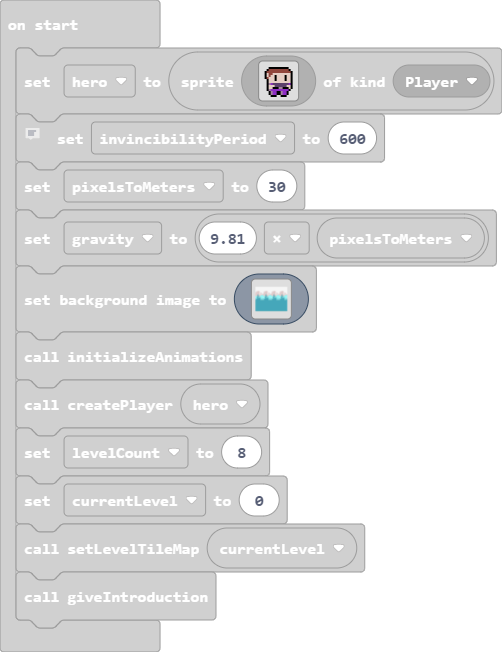
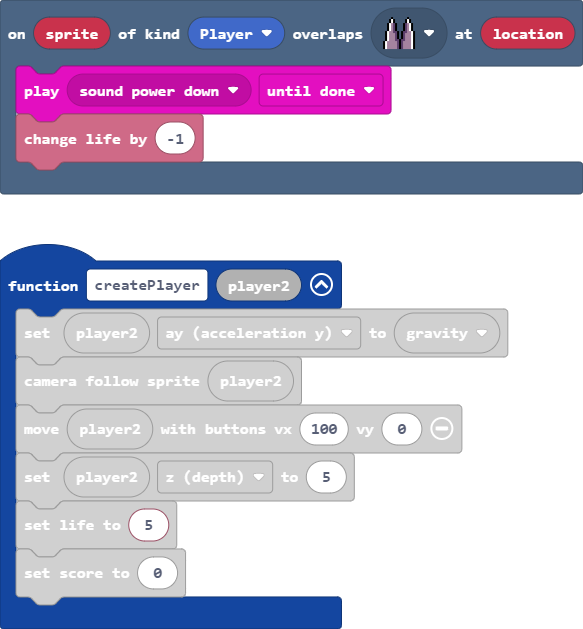
Update main.blocks, main.ts, tilemap.g.jres, tilemap.g.ts

diff --git a/tilemap.g.ts b/tilemap.g.ts
@@ -5,8 +5,6 @@ namespace myTiles {
     //% fixedInstance jres blockIdentity=images._tile
     export const tile0 = image.ofBuffer(hex``);
     //% fixedInstance jres blockIdentity=images._tile
-    export const tile1 = image.ofBuffer(hex``);
-    //% fixedInstance jres blockIdentity=images._tile
     export const tile2 = image.ofBuffer(hex``);
     //% fixedInstance jres blockIdentity=images._tile
     export const tile3 = image.ofBuffer(hex``);
@@ -24,20 +22,15 @@ namespace myTiles {
     export const tile9 = image.ofBuffer(hex``);
     //% fixedInstance jres blockIdentity=images._tile
     export const tile10 = image.ofBuffer(hex``);
+    //% fixedInstance jres blockIdentity=images._tile
+    export const tile11 = image.ofBuffer(hex``);
+    //% fixedInstance jres blockIdentity=images._tile
+    export const tile1 = image.ofBuffer(hex``);
+    //% fixedInstance jres blockIdentity=images._tile
+    export const tile12 = image.ofBuffer(hex``);
 
     helpers._registerFactory("tilemap", function(name: string) {
         switch(helpers.stringTrim(name)) {
-            case "level_0":
-            case "level_0":return tiles.createTilemap(hex`2000080000000000000000000000000000000000000000000000000000000000000000000000000000000000000000000000000000000000000300000000000000000000000000000000000000000000000000000000000305030000000000000000000000000000000000030300030000000000000300030503000000000000000000000000000000000303030003000000000300030003050300000000000000000000030000000003030303000300000300030503050305030005050505050505050503060000000000000400030000030004000000040503000000000000000001000302020202020202020203020203020202020202020302020202020202020202`, img`
-. . . . . . . . . . . . . . . . . . . . . . . . . . . . . . . . 
-. . . . . . . . . . . . . . . . . . . . . 2 . . . . . . . . . . 
-. . . . . . . . . . . . . . . . . . . 2 . 2 . . . . . . . . . . 
-. . . . . . . 2 2 . 2 . . . . . . 2 . 2 . 2 . . . . . . . . . . 
-. . . . . . 2 2 2 . 2 . . . . 2 . 2 . 2 . 2 . . . . . . . . . . 
-2 . . . . 2 2 2 2 . 2 . . 2 . 2 . 2 . 2 . 2 . . . . . . . . . . 
-2 . . . . . . . . . 2 . . 2 . . . . . . . 2 . . . . . . . . . . 
-2 2 2 2 2 2 2 2 2 2 2 . . 2 2 2 2 2 2 2 2 2 2 2 2 2 2 2 2 2 2 2 
-`, [myTiles.tile0,myTiles.tile1,myTiles.tile2,myTiles.tile3,myTiles.tile4,myTiles.tile5,myTiles.tile6], TileScale.Sixteen);
             case "level_1":
             case "level_1":return tiles.createTilemap(hex`2000080000000000000000000000000000000000000000060000000000000000060606060000000000000000000000000000000000000000000000000000000000000000000000000000000000000000000000000000000000000000000000000000000000000000000000000000020202020202000000000000000000000000000000000000000000000000020002060303030000000000000000000000000000030303000000000002000002000200030303000000000000000000000000000003030300040002000200000000020003030300000000000000000005000000000303030101010201020101010102010101010101010101010101010101010101010101`, img`
 . . . . . . . . . . . . . . . . . . . . . . . . . . . . . . . . 
@@ -104,17 +97,28 @@ namespace myTiles {
 2 . . . . . . . . . . . . . . . . . . . . . . . . . . . . . . . . . . . . 
 2 2 2 2 2 2 2 2 2 2 2 2 2 2 2 2 2 2 2 2 2 2 2 2 2 2 2 2 2 2 2 2 2 2 2 2 2 
 `, [myTiles.tile0,myTiles.tile1,myTiles.tile2,myTiles.tile3,myTiles.tile6,myTiles.tile5,myTiles.tile4,myTiles.tile7], TileScale.Sixteen);
+            case "level_0":
+            case "level_0":return tiles.createTilemap(hex`640008000000000000000000000000000000000000000000000000000000000000000000000000000000000000000000000000000000000000000000000000000000000000000000000000000000000000000000000000000000000000000000000000000000000000000000000000000000000000000000000000000000000003000000000000000000000000000000000000000000000000000000000000000000000000000000000000000000000000000000000000000000000000000000000000000000000000000000000000000000000000000000000000000000000000000000000000000000000000000000000100000000000000000000000000000000000000000000000000000000000000000000000000000000000000000000000000000000000000000000000000000000000000020202020000000000000000000000000005050505000000000000000505050505050505050000000000000000000000000000000000000000000000000000000000000000000000000000000505050500000000000000000000000000000000000000000505050502000000000000000000000005000000000500000000000005000000000000000500000000000000000000000000000000000000000000000000000000000000000000000005050500000000050505050000000000000000000000070000000000000000050000000000000000000000000000000000000000000000000000000000000000000000000000000000000000000000050505000000000000000000050505050505050505050000000000000000000000000000000000000000000000000000000000000000000606000000000000000000000000000000000000000000000000000000000000000000000000000000000000000000050505050505050505050500000000000000000000000000000000000000000000000000000000000004040404040404040404040404040404040404040404040404040404040404040404040404040404040404040404040404040404040404040404040404040404040404040404040404040404040404040404040404040404040404040404040404040404`, img`
+....................................................................................................
+....................................................................................................
+....................................................................................................
+....................................................................................................
+.....2222...........................................................................................
+.........2..........................................................................................
+....................................................................................................
+2222222222222222....................................................................................
+`, [myTiles.tile0,myTiles.tile4,myTiles.tile5,myTiles.tile7,myTiles.tile10,sprites.builtin.forestTiles0,myTiles.tile12,myTiles.tile6], TileScale.Sixteen);
             case "level":
-            case "level":return tiles.createTilemap(hex`2000080000000000000000000000000000000000000000000000000000000000000000000000000000000000000000000000000000000000000000000000000000000000000000000000000005000000000000000000000000000000000000000000000000000000050000000000000000000000000000000000000000000000000000000006000000000000000000050000000000000000000000000000000000000000000000000000000003000005000300000000000000000000000000000000000300000000030000000300040000030000040003000400000400030001000000030202020203020202030202020203020202020302020202020203020202020203`, img`
[1 lines of base64/hex data omitted]
 . . . . . . . . . . . . . . . . . . . . . . . . . . . . . . . . 
 . . . . . . . . . . . . . . . . . . . . . . . . . . . . . . . . 
-. . . . . . . . . . . . . . . . . . . . . . . . . . . . . . . . 
-. . . . . . . . . . . . . . . . . . . . . . . . . . . . . . . . 
+. . . . . . . . . . . . 2 . . 2 . . . . . . . . . . . . . . . . 
+. . . . . . . . . . . . 2 2 2 2 . . . . . . . . . . . . . . . . 
 . . . . . . . . . . . . . . . . . . . . . . . . . . . . . . . . 
 . . . . . . . . 2 . . . . 2 . . . . . . . . . . . . . . . . . 2 
 . . . . 2 . . . 2 . . . . 2 . . . . 2 . . . . . . 2 . . . . . 2 
 2 2 2 2 2 2 2 2 2 2 2 2 2 2 2 2 2 2 2 2 2 2 2 2 2 2 2 2 2 2 2 2 
-`, [myTiles.tile0,myTiles.tile1,myTiles.tile2,myTiles.tile3,myTiles.tile4,myTiles.tile5,myTiles.tile6,myTiles.tile8,myTiles.tile9,myTiles.tile10], TileScale.Sixteen);
+`, [myTiles.tile0,myTiles.tile1,myTiles.tile3,myTiles.tile4,myTiles.tile5,myTiles.tile6,myTiles.tile8,sprites.builtin.forestTiles0,myTiles.tile11,myTiles.tile12,myTiles.tile7,myTiles.tile10], TileScale.Sixteen);
         }
         return null;
     })
@@ -123,7 +127,6 @@ namespace myTiles {
         switch(helpers.stringTrim(name)) {
             case "transparency16":return transparency16;
             case "tile0":return tile0;
-            case "tile1":return tile1;
             case "tile2":return tile2;
             case "tile3":return tile3;
             case "tile4":return tile4;
@@ -136,6 +139,11 @@ namespace myTiles {
             case "tile9":return tile9;
             case "myTile1":
             case "tile10":return tile10;
+            case "myTile2":
+            case "tile11":return tile11;
+            case "tile1":return tile1;
+            case "myTile3":
+            case "tile12":return tile12;
         }
         return null;
     })

diff --git a/main.ts b/main.ts
@@ -677,6 +677,10 @@ function animateJumps () {
             `)
     }
 }
+scene.onOverlapTile(SpriteKind.Player, assets.tile`myTile3`, function (sprite, location) {
+    music.play(music.melodyPlayable(music.powerDown), music.PlaybackMode.UntilDone)
+    info.changeLifeBy(-1)
+})
 function animateCrouch () {
     mainCrouchLeft = animation.createAnimation(ActionKind.CrouchLeft, 100)
     animation.attachAnimation(hero, mainCrouchLeft)
@@ -826,7 +830,7 @@ function createPlayer (player2: Sprite) {
     scene.cameraFollowSprite(player2)
     controller.moveSprite(player2, 100, 0)
     player2.z = 5
-    info.setLife(3)
+    info.setLife(5)
     info.setScore(0)
 }
 function initializeLevel (level: number) {
